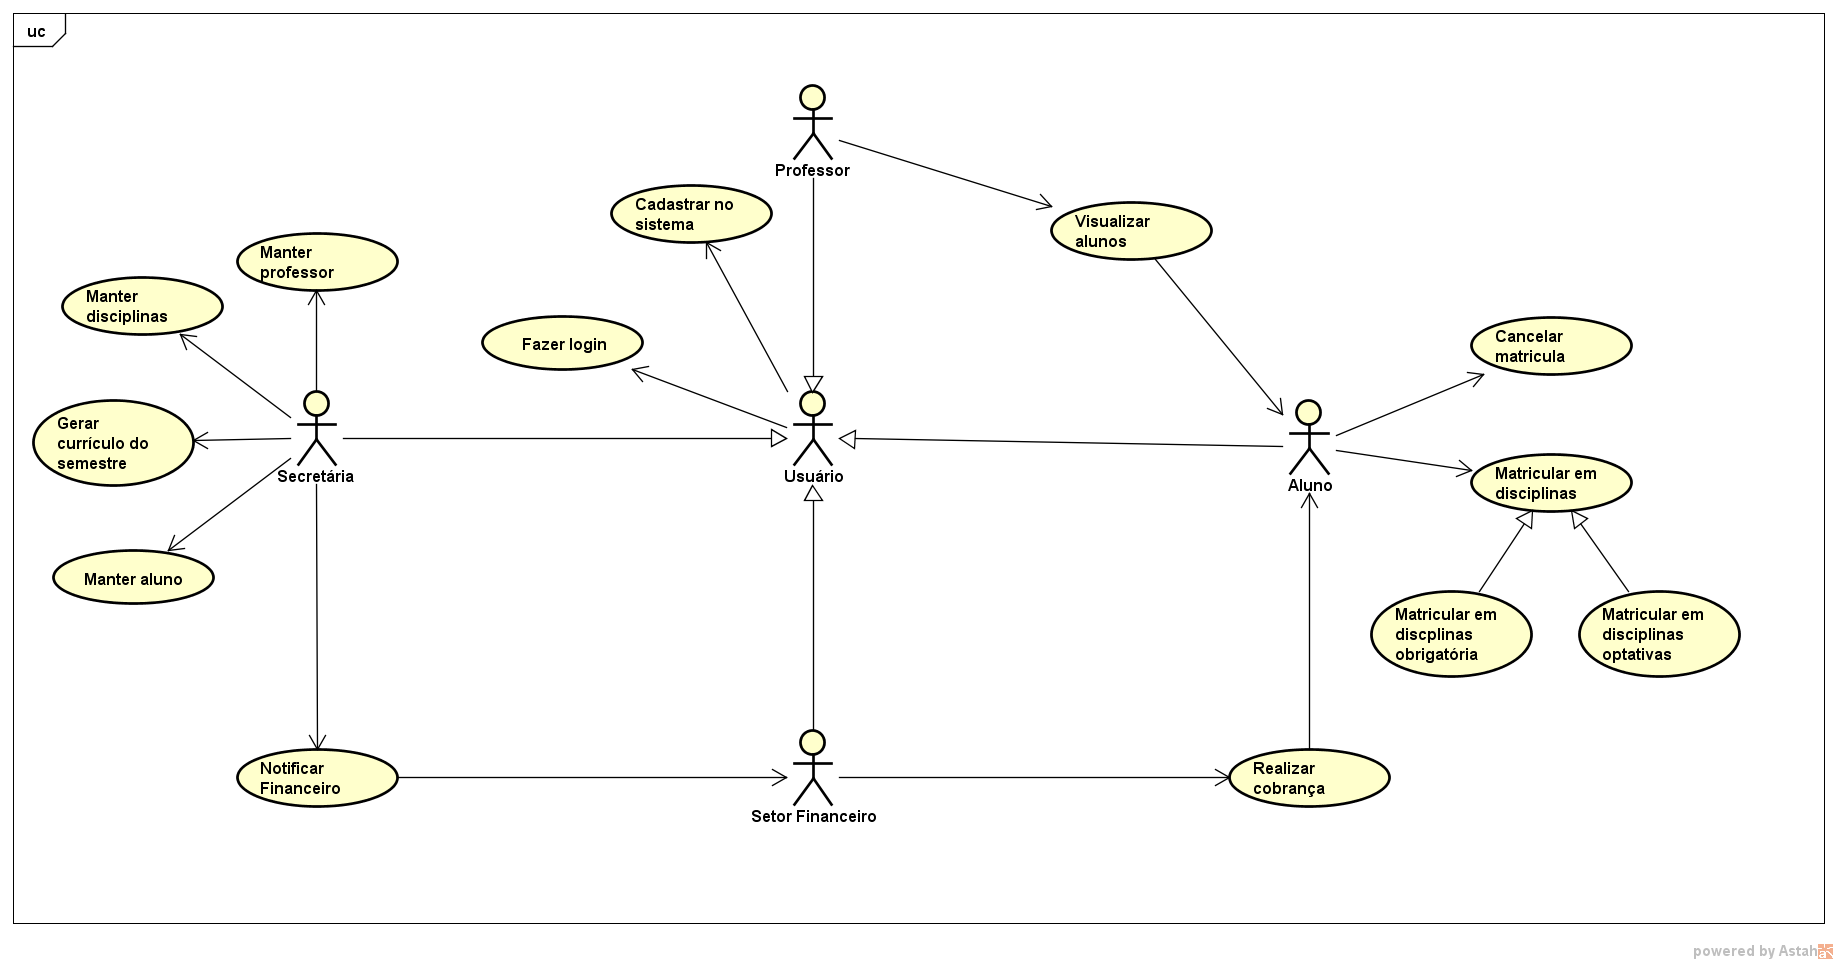
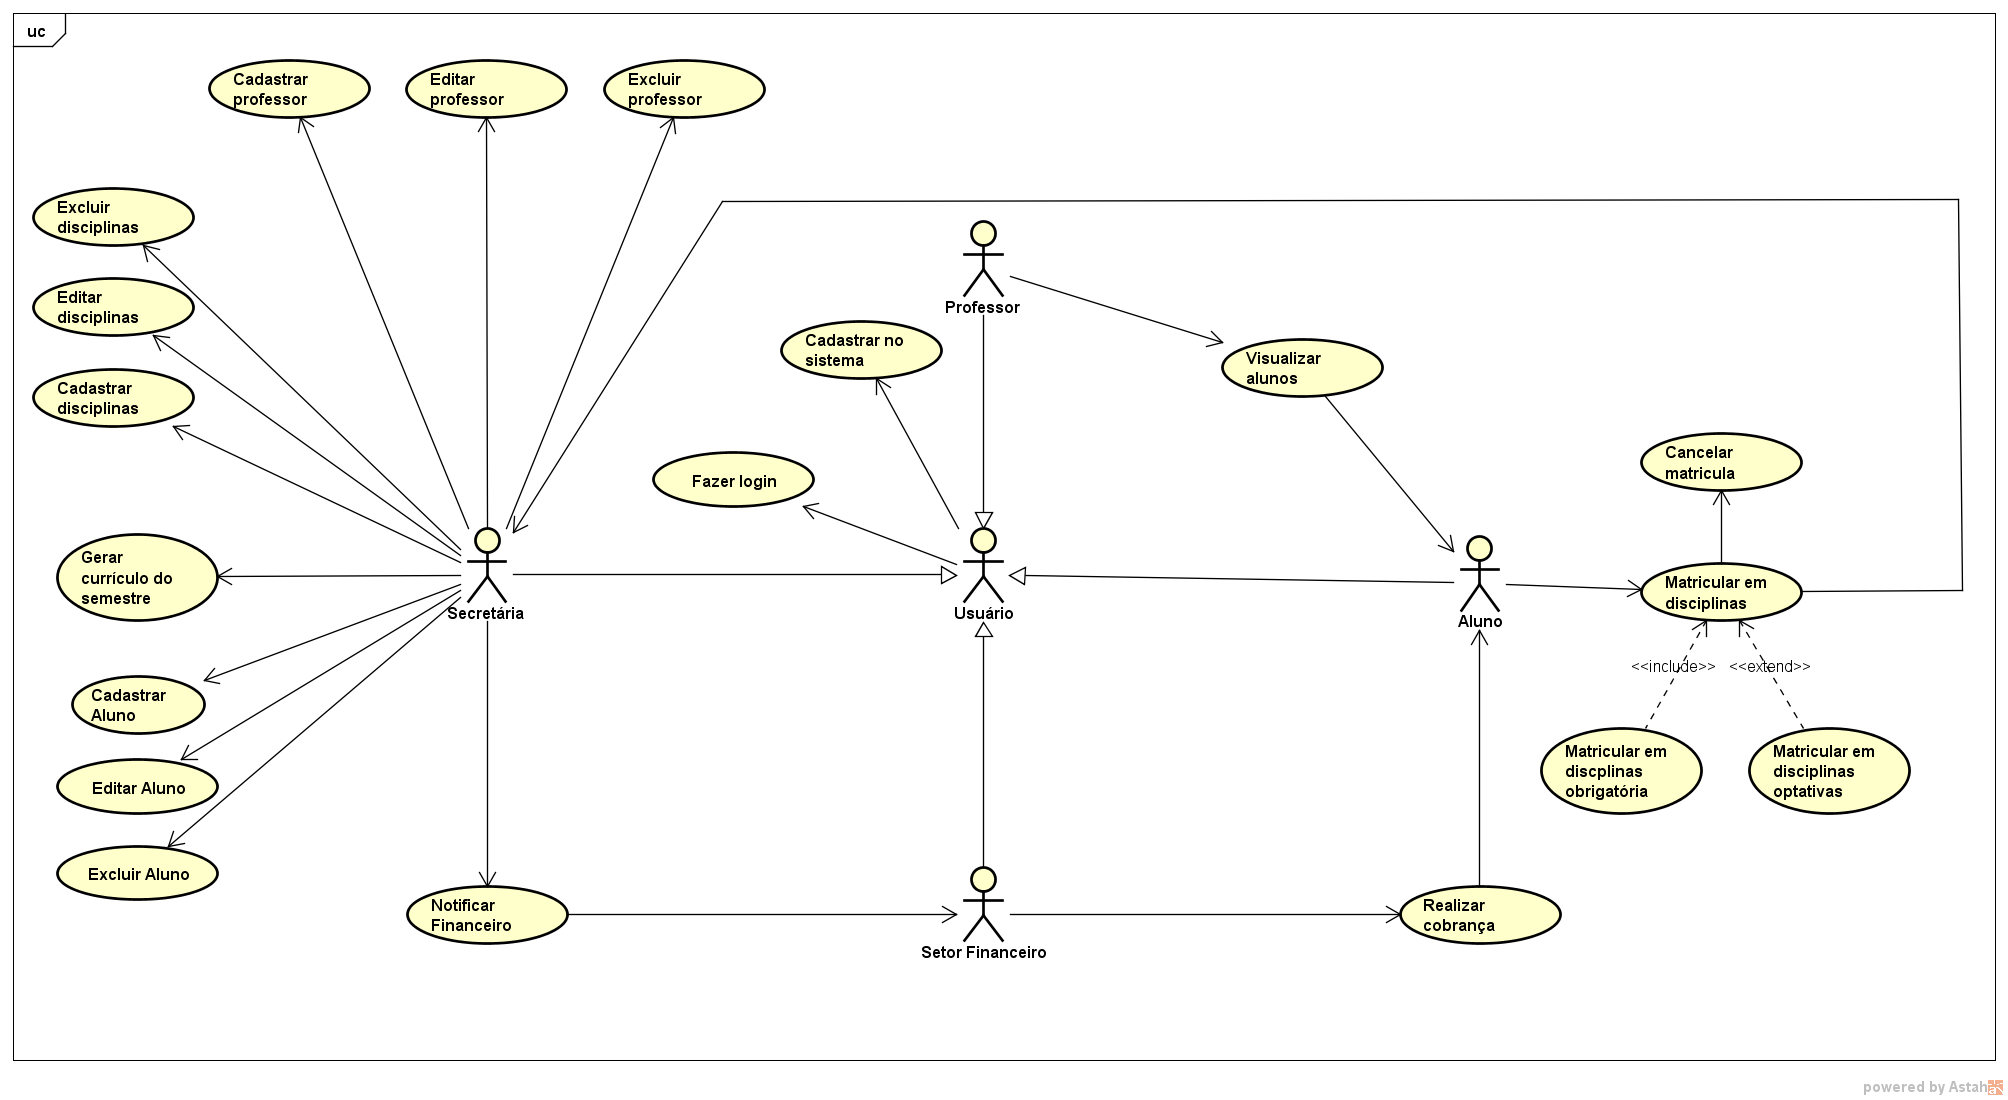
aula 02

diff --git a/lab01/documents/userStories.md b/lab01/documents/userStories.md
@@ -1,3 +1,5 @@
+# User Stories
+
 | Quem                  | O quê                                       | Por que                            |
 | --------------------- | ------------------------------------------- | ---------------------------------- |
 | Como Aluno            | gostaria de me matricular                   | para poder cursar a disciplina     |
@@ -5,7 +7,7 @@
 | Como Professor        | gostaria de visualizar alunos da disciplina | para saber para quem darei aula    |
 | Como Setor Financeiro | gostaria de realizar cobranças              | para receber o pagamento           |
 | Como Secretária       | gostaria de gerar o currículo do semestre   | para organizar a disciplinas       |
-| Como Secretária       | gostaria de manter dados sobre professor    | para planejamento dos semestres    |
-| Como Secretária       | gostaria de manter dados da disciplina      | para definição do currículo        |
-| Como secretária       | gostaria de manter dados sobre aluno        | para manter comunicação            |
+| Como Secretária       | gostaria de cadastrar/editar/excluir os dados de professores    | para planejamento dos semestres    |
+| Como Secretária       | gostaria de  cadastrar/editar/excluir os dados das disciplinas      | para definição do currículo        |
+| Como secretária       | gostaria de  cadastrar/editar/excluir os dados de alunos   | para manter comunicação            |
 | Como secretária       | gostaria de notificar o setor financeiro    | para resolver questões de pagamento|

diff --git a/lab01/documents/notes.md b/lab01/documents/notes.md
@@ -1,0 +1,9 @@
+# Notas
+
+- expandir CRUDs (palavra manter nos casos de uso)
+
+- adicionar esteriótipos nos casos de uso de matricula
+
+- vincular "cancelar matrícula" com o caso de matrícular em disciplina
+
+- vincular "matrícular em disciplina" com o usuário secretária
